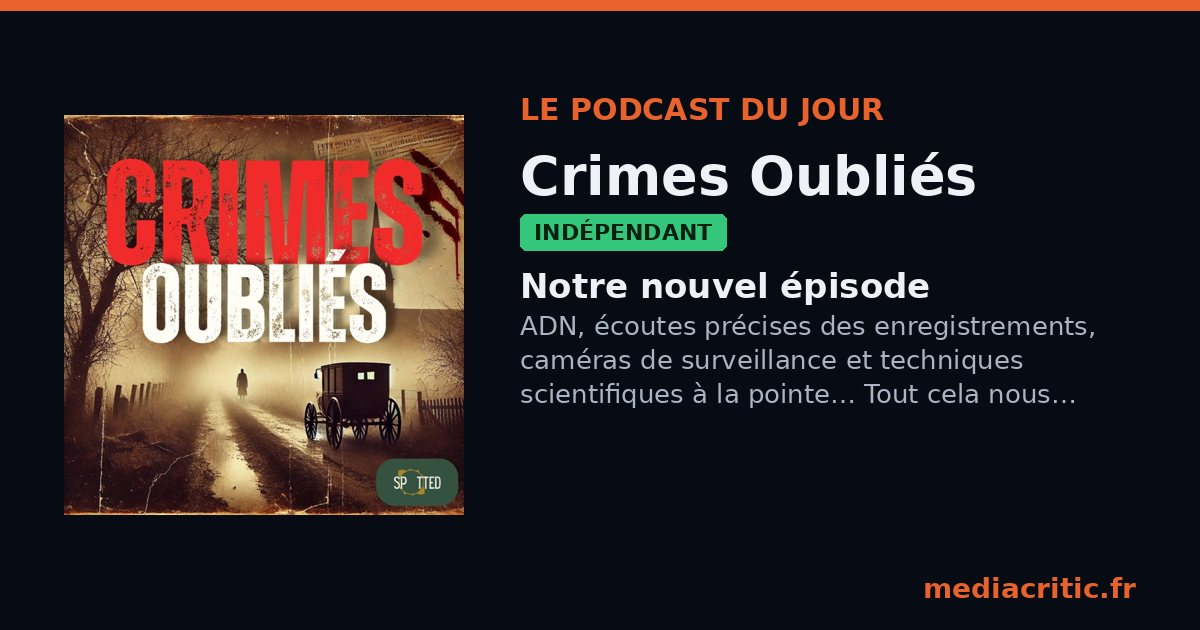
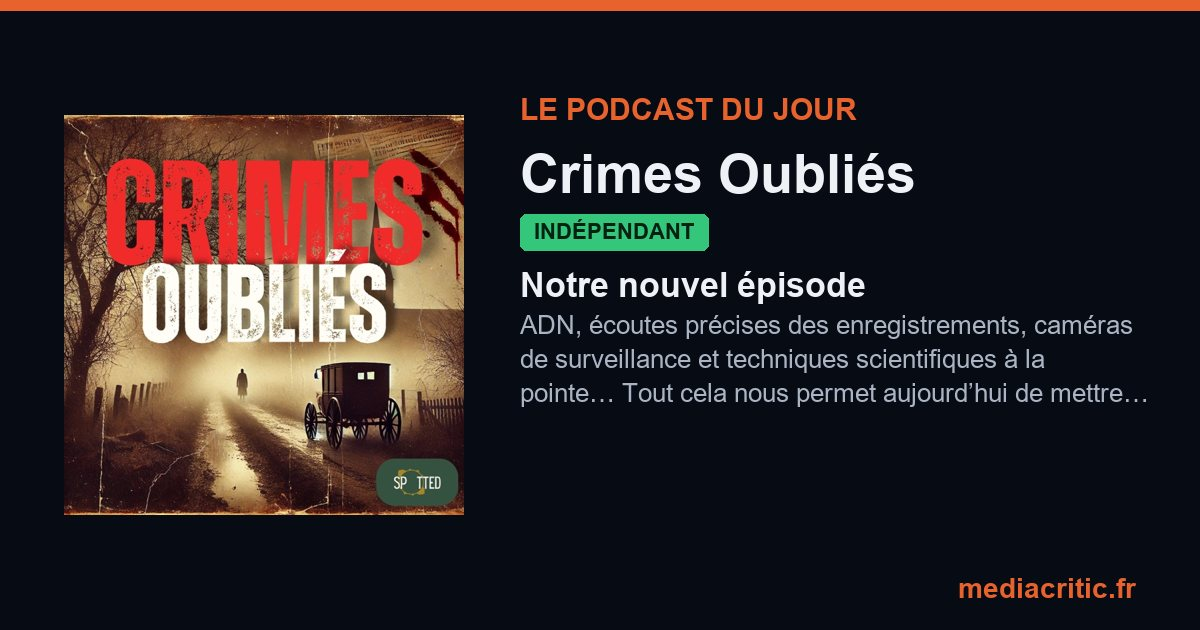
Podcast du jour : emission de l'episode 55

Changed region(s): [[0.4317, 0.2413, 0.9558, 0.6635], [0.4317, 0.1508, 0.74, 0.2111], [0.7708, 0.9048, 0.9558, 0.9651]]

diff --git a/podcast-du-jour.html b/podcast-du-jour.html
@@ -41,7 +41,7 @@ a{color:inherit}
 annuaire</a> qui en parle : un podcast ou une chaîne YouTube francophone à écouter pour aller
 plus loin que les gros titres.</p>
 <a class="mys-appel" href="mystere.html"><span class="mys-appel-ico" aria-hidden="true">🕵</span><span><strong>Le Mystère du Jour</strong><span>Devine-le avant de l'écouter : le podcast du jour en 6 indices →</span></span></a>
-<section class="mcj-zone"><article class="mcj" aria-label="🔥 Le podcast du jour"><a class="mcj-cover" href="fiches/crimes-oublies.html"><img src="https://is1-ssl.mzstatic.com/image/thumb/Podcasts211/v4/99/ed/a4/99eda493-4bd3-a62f-1d15-ade606e72b86/mza_126642419277798623.jpeg/600x600bb.jpg" alt="Crimes Oubliés" width="160" height="160" loading="eager" decoding="async" /></a><div class="mcj-txt"><p class="mcj-eyebrow">🔥 Le podcast du jour · 22 novembre</p><h2 class="mcj-titre"><a href="fiches/crimes-oublies.html">Crimes Oubliés</a></h2><p class="mcj-labels"><a class="mc-indep" href="podcasts-independants.html" title="Publié hors radios, presse, studios et institutions : voir le guide">Indépendant</a></p><div class="mcj-raisons"><p class="mcj-raisons-t">Pourquoi ce choix</p><div class="mcj-s"><p class="mcj-s-t">L&#x27;actu qui a fait le buzz</p><p class="mcj-s-p">Notre nouvel épisode sort aujourd&#x27;hui : l&#x27;épisode 55 de MediaCritic est consacré à Crimes Oubliés.</p></div><div class="mcj-s"><p class="mcj-s-t">L&#x27;émission</p><p class="mcj-s-p">Crimes Oubliés — podcast de Camille Debreuille. ADN, écoutes précises des enregistrements, caméras de surveillance et techniques scientifiques à la pointe… Tout cela nous permet aujourd’hui de mettre les barreaux les plus dangereux criminels.</p></div><div class="mcj-s"><p class="mcj-s-t">Pourquoi l&#x27;écouter</p><p class="mcj-s-p">Parce que nous venons de lui consacrer l&#x27;épisode 55 de MediaCritic, à écouter dès aujourd&#x27;hui.</p></div></div><div class="mcj-actions"><a class="mcj-btn mcj-btn-1" href="https://www.deezer.com/fr/episode/966774241" target="_blank" rel="noopener">▶ Notre critique</a><a class="mcj-btn" href="fiches/crimes-oublies.html">Voir la fiche</a></div></div></article></section>
+<section class="mcj-zone"><article class="mcj" aria-label="🔥 Le podcast du jour"><a class="mcj-cover" href="fiches/crimes-oublies.html"><img src="https://is1-ssl.mzstatic.com/image/thumb/Podcasts211/v4/99/ed/a4/99eda493-4bd3-a62f-1d15-ade606e72b86/mza_126642419277798623.jpeg/600x600bb.jpg" alt="Crimes Oubliés" width="160" height="160" loading="eager" decoding="async" /></a><div class="mcj-txt"><p class="mcj-eyebrow">🔥 Le podcast du jour · 22 novembre</p><h2 class="mcj-titre"><a href="fiches/crimes-oublies.html">Crimes Oubliés</a></h2><p class="mcj-labels"><a class="mc-indep" href="podcasts-independants.html" title="Publié hors radios, presse, studios et institutions : voir le guide">Indépendant</a><span class="mcj-note">★ 8/10 MediaCritic</span></p><div class="mcj-raisons"><p class="mcj-raisons-t">Pourquoi ce choix</p><div class="mcj-s"><p class="mcj-s-t">L&#x27;actu qui a fait le buzz</p><p class="mcj-s-p">Notre nouvel épisode sort aujourd&#x27;hui : l&#x27;épisode 55 de MediaCritic est consacré à Crimes Oubliés.</p></div><div class="mcj-s"><p class="mcj-s-t">L&#x27;émission</p><p class="mcj-s-p">Crimes Oubliés — podcast de Camille Debreuille. ADN, écoutes précises des enregistrements, caméras de surveillance et techniques scientifiques à la pointe… Tout cela nous permet aujourd’hui de mettre les barreaux les plus dangereux criminels.</p></div><div class="mcj-s"><p class="mcj-s-t">Pourquoi l&#x27;écouter</p><p class="mcj-s-p">Parce que nous venons de lui consacrer l&#x27;épisode 55 de MediaCritic, à écouter dès aujourd&#x27;hui. Notre note : 8/10. Notre verdict : « Du true crime fait par une artisane : écrit, raconté et réalisé seule, chaque semaine, sans labo pour sauver l&#x27;enquête. Le fait divers devient une leçon d&#x27;histoire. »</p></div></div><div class="mcj-actions"><a class="mcj-btn mcj-btn-1" href="https://www.mediacritic.fr/episodes/crimes-oublies.html" target="_blank" rel="noopener">▶ Notre critique</a><a class="mcj-btn" href="fiches/crimes-oublies.html">Voir la fiche</a></div></div></article></section>
 <section class="mcj-archive"><h2>Les sélections précédentes</h2><ol class="mcj-liste"><li class="mcj-l"><span class="mcj-l-date">21 novembre 2026</span><a href="fiches/squeezie-gaming.html">Squeezie Gaming</a><a class="mc-indep" href="podcasts-independants.html" title="Publié hors radios, presse, studios et institutions : voir le guide">Indépendant</a><span class="mcj-l-quoi">« Grand Theft Auto VI » — LE NOUVEAU GTA 6 EST FORMIDABLE (Grand Theft Auto VI)</span></li><li class="mcj-l"><span class="mcj-l-date">20 novembre 2026</span><a href="fiches/daniil-le-russe.html">Daniil le Russe</a><a class="mc-indep" href="podcasts-independants.html" title="Publié hors radios, presse, studios et institutions : voir le guide">Indépendant</a><span class="mcj-l-quoi">« Robert Pattinson » — ROBERT PATTINSON le James Bond qu&#x27;on mérite ?</span></li><li class="mcj-l"><span class="mcj-l-date">19 novembre 2026</span><a href="fiches/maintenant-vous-savez.html">Maintenant, vous savez</a><span class="mcj-l-quoi">« Beaujolais nouveau » — Pourquoi le Beaujolais Nouveau revient chaque année, malgré un goût controversé ?</span></li><li class="mcj-l"><span class="mcj-l-date">18 novembre 2026</span><a href="fiches/l-angle-eco-de-francois-lenglet.html">L&#x27;angle éco de François Lenglet</a><span class="mcj-l-quoi">« James Bond » — L&#x27;empire économique James Bond</span></li><li class="mcj-l"><span class="mcj-l-date">17 novembre 2026</span><a href="fiches/julien-chieze.html">Julien Chièze</a><a class="mc-indep" href="podcasts-independants.html" title="Publié hors radios, presse, studios et institutions : voir le guide">Indépendant</a><span class="mcj-l-quoi">« Beaujolais nouveau » — &quot;GTA 6 c&#x27;est la VIOLENCE, le BEAUJOLAIS c&#x27;est la convivialité !&quot; ❌ GTA 6 se fait CLASHER sur RMC 🤣</span></li><li class="mcj-l"><span class="mcj-l-date">16 novembre 2026</span><a href="fiches/les-grands-remplacants.html">Les grands remplaçants</a><span class="mcj-l-quoi">« Édouard Philippe » — Edouard Philippe : Intégration à l’extrême - La chronique de Djamil Le Shlag dans Les grands remplaçants du 7 novembre</span></li><li class="mcj-l"><span class="mcj-l-date">15 novembre 2026</span><a href="fiches/la-martingale.html">La Martingale</a><span class="mcj-l-quoi">MediaCritic, épisode 54</span></li><li class="mcj-l"><span class="mcj-l-date">14 novembre 2026</span><a href="fiches/rothen-s-enflamme.html">Rothen s&#x27;enflamme</a><span class="mcj-l-quoi">« Mauricio Pochettino » — LÉGENDE OU PAS LÉGENDE : MAURICIO POCHETTINO</span></li><li class="mcj-l"><span class="mcj-l-date">13 novembre 2026</span><a href="fiches/so-foot-arena.html">So Foot Arena</a><a class="mc-indep" href="podcasts-independants.html" title="Publié hors radios, presse, studios et institutions : voir le guide">Indépendant</a><span class="mcj-l-quoi">« Zinédine Zidane » — S03 - EP07 : Zinédine Zidane en état de grâce</span></li><li class="mcj-l"><span class="mcj-l-date">12 novembre 2026</span><a href="fiches/le-rendez-vous-tech.html">Le Rendez-vous Tech</a><a class="mc-indep" href="podcasts-independants.html" title="Publié hors radios, presse, studios et institutions : voir le guide">Indépendant</a><span class="mcj-l-quoi">« Jensen Huang » — Jensen Huang, l’agente qui m’aimait – RDV Tech</span></li><li class="mcj-l"><span class="mcj-l-date">11 novembre 2026</span><a href="fiches/les-nuits-du-cazarre-enchaine.html">Les nuits du Cazarre enchaîné</a><span class="mcj-l-quoi">« Teddy Riner » — Viens défier Cazarre du 10 novembre - Quiz Teddy Riner – 10/11</span></li><li class="mcj-l"><span class="mcj-l-date">10 novembre 2026</span><a href="fiches/les-gens-qui-doutent.html">Les Gens Qui Doutent</a><a class="mc-indep" href="podcasts-independants.html" title="Publié hors radios, presse, studios et institutions : voir le guide">Indépendant</a><span class="mcj-l-quoi">« Albert Dupontel » — Albert Dupontel : « La frustration d’un artiste, c’est de ressentir plus qu’il ne peut exprimer »</span></li><li class="mcj-l"><span class="mcj-l-date">9 novembre 2026</span><a href="fiches/notre-histoire.html">Notre Histoire</a><a class="mc-indep" href="podcasts-independants.html" title="Publié hors radios, presse, studios et institutions : voir le guide">Indépendant</a><span class="mcj-l-quoi">« Jean-Luc Mélenchon » — Jean-Luc Mélenchon et sa jeunesse : les coulisses d’un combat politique | Documentaire Politique AMP</span></li><li class="mcj-l"><span class="mcj-l-date">8 novembre 2026</span><a href="fiches/generation-do-it-yourself.html">Génération Do It Yourself</a><span class="mcj-l-quoi">MediaCritic, épisode 53</span></li><li class="mcj-l"><span class="mcj-l-date">7 novembre 2026</span><a href="fiches/le-kop-de-scipion.html">Le Kop de Scipion</a><a class="mc-indep" href="podcasts-independants.html" title="Publié hors radios, presse, studios et institutions : voir le guide">Indépendant</a><span class="mcj-l-quoi">« Pablo Pagis » — La liste des Bleus : grande première pour Pablo Pagis</span></li><li class="mcj-l"><span class="mcj-l-date">6 novembre 2026</span><a href="fiches/lionel.html">Lionel</a><a class="mc-indep" href="podcasts-independants.html" title="Publié hors radios, presse, studios et institutions : voir le guide">Indépendant</a><span class="mcj-l-quoi">« Cristiano Ronaldo » — Le mélange de Cristiano Ronaldo et Hello Kitty ça donne quoi ? 😱</span></li><li class="mcj-l"><span class="mcj-l-date">5 novembre 2026</span><a href="fiches/la-story-des-echos.html">La Story des Échos</a><span class="mcj-l-quoi">« Donald Trump » — Canada : pourquoi la guerre commerciale de Donald Trump freine les volontés d’indépendance</span></li><li class="mcj-l"><span class="mcj-l-date">4 novembre 2026</span><a href="fiches/torchon.html">Torchon</a><a class="mc-indep" href="podcasts-independants.html" title="Publié hors radios, presse, studios et institutions : voir le guide">Indépendant</a><span class="mcj-l-quoi">« Philippe Jaenada » — L&#x27;inconnue du quai de Javel - Philippe Jaenada</span></li><li class="mcj-l"><span class="mcj-l-date">3 novembre 2026</span><a href="fiches/l-il-de-philippe-caveriviere.html">L&#x27;œil de Philippe Caverivière</a><span class="mcj-l-quoi">« Sophie Adenot » — &quot;Sophie Adenot a passé huit mois dans l&#x27;espace...Tout ça pour revenir avec les mêmes phrases que Miss Auvergne&quot;</span></li><li class="mcj-l"><span class="mcj-l-date">2 novembre 2026</span><a href="fiches/geopolitique-profonde-www-geopolitique-profonde-com.html">GÉOPOLITIQUE PROFONDE (www.geopolitique-profonde.com)</a><a class="mc-indep" href="podcasts-independants.html" title="Publié hors radios, presse, studios et institutions : voir le guide">Indépendant</a><span class="mcj-l-quoi">« Christine Lagarde » — Démission de la BCE : ce que la CASTE vous CACHE sur CHRISTINE LAGARDE !</span></li><li class="mcj-l"><span class="mcj-l-date">1er novembre 2026</span><a href="fiches/jeanbapisteshow.html">JeanBaptisteShow</a><a class="mc-indep" href="podcasts-independants.html" title="Publié hors radios, presse, studios et institutions : voir le guide">Indépendant</a><span class="mcj-l-quoi">MediaCritic, épisode 52</span></li><li class="mcj-l"><span class="mcj-l-date">31 octobre 2026</span><a href="fiches/merci-remi.html">Merci Rémi !</a><a class="mc-indep" href="podcasts-independants.html" title="Publié hors radios, presse, studios et institutions : voir le guide">Indépendant</a><span class="mcj-l-quoi">« Halloween » — 👻 Halloween avec les parents</span></li><li class="mcj-l"><span class="mcj-l-date">30 octobre 2026</span><a href="fiches/entrez-dans-lhistoire.html">Entrez dans l&#x27;Histoire</a><span class="mcj-l-quoi">« Halloween » — Halloween : une histoire à faire peur</span></li><li class="mcj-l"><span class="mcj-l-date">29 octobre 2026</span><a href="fiches/zack.html">ZACK</a><a class="mc-indep" href="podcasts-independants.html" title="Publié hors radios, presse, studios et institutions : voir le guide">Indépendant</a><span class="mcj-l-quoi">« Harry Kane » — HARRY KANE BALLON D&#x27;OR !</span></li><li class="mcj-l"><span class="mcj-l-date">28 octobre 2026</span><a href="fiches/a-bientot-de-te-revoir.html">À bientôt de te revoir</a><a class="mc-indep" href="podcasts-independants.html" title="Publié hors radios, presse, studios et institutions : voir le guide">Indépendant</a><span class="mcj-l-quoi">Pépite indépendante</span></li><li class="mcj-l"><span class="mcj-l-date">27 octobre 2026</span><a href="fiches/lafter-foot.html">L&#x27;After Foot</a><span class="mcj-l-quoi">« Ballon d&#x27;or » — Le Top de l&#x27;After Foot : L&#x27;hommage de l&#x27;After au Ballon d&#x27;Or 2026 Harry Kane ! – 26/10</span></li><li class="mcj-l"><span class="mcj-l-date">26 octobre 2026</span><a href="fiches/raph-football.html">RAPH FOOTBALL</a><a class="mc-indep" href="podcasts-independants.html" title="Publié hors radios, presse, studios et institutions : voir le guide">Indépendant</a><span class="mcj-l-quoi">« Le Havre » — 🔵⚪ MARSEILLE - LE HAVRE / Ligue 1 Commentary 🎙</span></li><li class="mcj-l"><span class="mcj-l-date">25 octobre 2026</span><a href="fiches/les-grosses-tetes.html">Les Grosses Têtes</a><span class="mcj-l-quoi">« Laurent Nuñez » — FAKE NEWS - Apple, Laurent Nunez, manifestations... Quelle Grosse Tête dit vrai ?</span></li></ol></section>
 </main>
 <!-- mc-footer --><footer class="mcf"><div class="mcf-in"><div class="mcf-brand"><a class="mcf-logo" href="/"><img src="/assets/logo.png" alt="" width="28" height="28" /><span>MediaCritic</span></a><p>Le podcast qui donne son avis, même quand on ne lui a pas demandé, et l&#39;annuaire des podcasts et chaînes YouTube francophones.</p><div class="mcf-social"><a href="https://www.instagram.com/mediacritic.inc/" target="_blank" rel="noopener noreferrer" aria-label="Instagram"><svg aria-hidden="true" focusable="false" viewBox="0 0 24 24"><path d="M12 2.163c3.204 0 3.584.012 4.85.07 3.252.148 4.771 1.691 4.919 4.919.058 1.265.069 1.645.069 4.849 0 3.205-.012 3.584-.069 4.849-.149 3.225-1.664 4.771-4.919 4.919-1.266.058-1.644.07-4.85.07-3.204 0-3.584-.012-4.849-.07-3.26-.149-4.771-1.699-4.919-4.92-.058-1.265-.07-1.644-.07-4.849 0-3.204.013-3.583.07-4.849.149-3.227 1.664-4.771 4.919-4.919 1.266-.057 1.645-.069 4.849-.069zm0-2.163c-3.259 0-3.667.014-4.947.072-4.358.2-6.78 2.618-6.98 6.98-.059 1.281-.073 1.689-.073 4.948 0 3.259.014 3.668.072 4.948.2 4.358 2.618 6.78 6.98 6.98 1.281.058 1.689.072 4.948.072 3.259 0 3.668-.014 4.948-.072 4.354-.2 6.782-2.618 6.979-6.98.059-1.28.073-1.689.073-4.948 0-3.259-.014-3.667-.072-4.947-.196-4.354-2.617-6.78-6.979-6.98-1.281-.059-1.69-.073-4.949-.073zm0 5.838c-3.403 0-6.162 2.759-6.162 6.162s2.759 6.163 6.162 6.163 6.162-2.759 6.162-6.163c0-3.403-2.759-6.162-6.162-6.162zm0 10.162c-2.209 0-4-1.79-4-4 0-2.209 1.791-4 4-4s4 1.791 4 4c0 2.21-1.791 4-4 4zm6.406-11.845c-.796 0-1.441.645-1.441 1.44s.645 1.44 1.441 1.44c.795 0 1.439-.645 1.439-1.44s-.644-1.44-1.439-1.44z"/></svg></a><a href="https://www.tiktok.com/@mediacritic_le_podcast" target="_blank" rel="noopener noreferrer" aria-label="TikTok"><svg aria-hidden="true" focusable="false" viewBox="0 0 24 24"><path d="M19.59 6.69a4.83 4.83 0 0 1-3.77-4.25V2h-3.45v13.67a2.89 2.89 0 0 1-2.88 2.5 2.89 2.89 0 0 1-2.89-2.89 2.89 2.89 0 0 1 2.89-2.89c.28 0 .54.04.79.1V9.01a6.33 6.33 0 0 0-.79-.05 6.34 6.34 0 0 0-6.34 6.34 6.34 6.34 0 0 0 6.34 6.34 6.34 6.34 0 0 0 6.33-6.34V8.69a8.18 8.18 0 0 0 4.78 1.52V6.75a4.85 4.85 0 0 1-1.01-.06z"/></svg></a><a href="https://www.youtube.com/@MediaCriticInc" target="_blank" rel="noopener noreferrer" aria-label="YouTube"><svg aria-hidden="true" focusable="false" viewBox="0 0 24 24"><path d="M23.498 6.186a3.016 3.016 0 0 0-2.122-2.136C19.505 3.545 12 3.545 12 3.545s-7.505 0-9.377.505A3.017 3.017 0 0 0 .502 6.186C0 8.07 0 12 0 12s0 3.93.502 5.814a3.016 3.016 0 0 0 2.122 2.136c1.871.505 9.376.505 9.376.505s7.505 0 9.377-.505a3.015 3.015 0 0 0 2.122-2.136C24 15.93 24 12 24 12s0-3.93-.502-5.814zM9.545 15.568V8.432L15.818 12l-6.273 3.568z"/></svg></a><a href="https://x.com/MediaCriticInc" target="_blank" rel="noopener noreferrer" aria-label="X"><svg aria-hidden="true" focusable="false" viewBox="0 0 24 24"><path d="M18.244 2.25h3.308l-7.227 8.26 8.502 11.24H16.17l-4.714-6.231-5.401 6.231H2.746l7.73-8.835L1.254 2.25H8.08l4.253 5.622zm-1.161 17.52h1.833L7.084 4.126H5.117z"/></svg></a><a href="https://www.linkedin.com/in/mediacritic-le-podcast-b890743a1/" target="_blank" rel="noopener noreferrer" aria-label="LinkedIn"><svg aria-hidden="true" focusable="false" viewBox="0 0 24 24"><path d="M20.447 20.452h-3.554v-5.569c0-1.328-.027-3.037-1.852-3.037-1.853 0-2.136 1.445-2.136 2.939v5.667H9.351V9h3.414v1.561h.046c.477-.9 1.637-1.85 3.37-1.85 3.601 0 4.267 2.37 4.267 5.455v6.286zM5.337 7.433c-1.144 0-2.063-.926-2.063-2.065 0-1.138.92-2.063 2.063-2.063 1.14 0 2.064.925 2.064 2.063 0 1.139-.925 2.065-2.064 2.065zm1.782 13.019H3.555V9h3.564v11.452zM22.225 0H1.771C.792 0 0 .774 0 1.729v20.542C0 23.227.792 24 1.771 24h20.451C23.2 24 24 23.227 24 22.271V1.729C24 .774 23.2 0 22.222 0h.003z"/></svg></a></div></div><div><p class="mcf-t">MediaCritic</p><ul><li><a href="/catalogue.html">Annuaire</a></li><li><a href="/classement.html">Classement</a></li><li><a href="/podcasts-independants.html">Les indépendants</a></li><li><a href="/chaines-youtube.html">Chaînes YouTube</a></li><li><a href="/badges.html">Badges MediaCritic</a></li><li><a href="/podcast-du-jour.html">Le podcast du jour</a></li><li><a href="/palmares.html">Palmarès des critiques</a></li><li><a href="/comparer.html">Comparateur</a></li><li><a href="/qui-sommes-nous.html">L&#39;équipe</a></li><li><a href="/contact.html">Contact</a></li><li><a href="/mentions-legales.html">Mentions légales</a></li></ul></div><div><p class="mcf-t">Catégories</p><ul><li><a href="/categories/histoire.html">Histoire</a></li><li><a href="/categories/true-crime.html">True crime</a></li><li><a href="/categories/culture-societe.html">Culture & société</a></li><li><a href="/categories/sciences.html">Sciences</a></li><li><a href="/categories/tech.html">Tech</a></li><li><a href="/categories/gaming.html">Gaming</a></li><li><a href="/categories/cinema-series.html">Cinéma & séries</a></li><li><a href="/categories/musique.html">Musique</a></li><li><a href="/categories/humour.html">Humour</a></li><li><a href="/categories/sport.html">Sport</a></li><li><a href="/categories/business.html">Business</a></li><li><a href="/categories/cuisine-gastronomie.html">Cuisine</a></li><li><a href="/categories/voyage.html">Voyage</a></li></ul></div><div><p class="mcf-t">Écouter</p><ul><li><a href="https://open.spotify.com/show/5JuffYLQq1q6l7Vh2zvkrV" target="_blank" rel="noopener noreferrer">Spotify</a></li><li><a href="https://podcasts.apple.com/fr/podcast/mediacritic/id1853247643" target="_blank" rel="noopener noreferrer">Apple Podcasts</a></li><li><a href="https://www.deezer.com/fr/show/1002376672" target="_blank" rel="noopener noreferrer">Deezer</a></li><li><a href="https://www.youtube.com/@MediaCriticInc" target="_blank" rel="noopener noreferrer">YouTube</a></li></ul></div></div><div class="mcf-bas"><p>© 2026 MediaCritic · <a href="/contact.html">mediacriticinc@gmail.com</a></p><p id="footer-updated"></p></div></footer><!-- /mc-footer -->

diff --git a/kit-du-jour.html b/kit-du-jour.html
@@ -31,15 +31,15 @@ body{margin:0;background:var(--mc-bg);color:var(--mc-text)}
 <p>Page de travail de l'équipe (non référencée). Textes prêts à copier, visuels à télécharger.
 Chaque lien porte un marqueur de suivi par réseau, visible dans Google Analytics
 (campagne « du-jour »).</p>
-<article class="mcj" aria-label="🔥 Le podcast du jour"><a class="mcj-cover" href="fiches/crimes-oublies.html"><img src="https://is1-ssl.mzstatic.com/image/thumb/Podcasts211/v4/99/ed/a4/99eda493-4bd3-a62f-1d15-ade606e72b86/mza_126642419277798623.jpeg/600x600bb.jpg" alt="Crimes Oubliés" width="160" height="160" loading="eager" decoding="async" /></a><div class="mcj-txt"><p class="mcj-eyebrow">🔥 Le podcast du jour · 22 novembre</p><h2 class="mcj-titre"><a href="fiches/crimes-oublies.html">Crimes Oubliés</a></h2><p class="mcj-labels"><a class="mc-indep" href="podcasts-independants.html" title="Publié hors radios, presse, studios et institutions : voir le guide">Indépendant</a></p><div class="mcj-raisons"><p class="mcj-raisons-t">Pourquoi ce choix</p><div class="mcj-s"><p class="mcj-s-t">L&#x27;actu qui a fait le buzz</p><p class="mcj-s-p">Notre nouvel épisode sort aujourd&#x27;hui : l&#x27;épisode 55 de MediaCritic est consacré à Crimes Oubliés.</p></div><div class="mcj-s"><p class="mcj-s-t">L&#x27;émission</p><p class="mcj-s-p">Crimes Oubliés — podcast de Camille Debreuille. ADN, écoutes précises des enregistrements, caméras de surveillance et techniques scientifiques à la pointe… Tout cela nous permet aujourd’hui de mettre les barreaux les plus dangereux criminels.</p></div><div class="mcj-s"><p class="mcj-s-t">Pourquoi l&#x27;écouter</p><p class="mcj-s-p">Parce que nous venons de lui consacrer l&#x27;épisode 55 de MediaCritic, à écouter dès aujourd&#x27;hui.</p></div></div><div class="mcj-actions"><a class="mcj-btn mcj-btn-1" href="https://www.deezer.com/fr/episode/966774241" target="_blank" rel="noopener">▶ Notre critique</a><a class="mcj-btn" href="fiches/crimes-oublies.html">Voir la fiche</a></div></div></article>
+<article class="mcj" aria-label="🔥 Le podcast du jour"><a class="mcj-cover" href="fiches/crimes-oublies.html"><img src="https://is1-ssl.mzstatic.com/image/thumb/Podcasts211/v4/99/ed/a4/99eda493-4bd3-a62f-1d15-ade606e72b86/mza_126642419277798623.jpeg/600x600bb.jpg" alt="Crimes Oubliés" width="160" height="160" loading="eager" decoding="async" /></a><div class="mcj-txt"><p class="mcj-eyebrow">🔥 Le podcast du jour · 22 novembre</p><h2 class="mcj-titre"><a href="fiches/crimes-oublies.html">Crimes Oubliés</a></h2><p class="mcj-labels"><a class="mc-indep" href="podcasts-independants.html" title="Publié hors radios, presse, studios et institutions : voir le guide">Indépendant</a><span class="mcj-note">★ 8/10 MediaCritic</span></p><div class="mcj-raisons"><p class="mcj-raisons-t">Pourquoi ce choix</p><div class="mcj-s"><p class="mcj-s-t">L&#x27;actu qui a fait le buzz</p><p class="mcj-s-p">Notre nouvel épisode sort aujourd&#x27;hui : l&#x27;épisode 55 de MediaCritic est consacré à Crimes Oubliés.</p></div><div class="mcj-s"><p class="mcj-s-t">L&#x27;émission</p><p class="mcj-s-p">Crimes Oubliés — podcast de Camille Debreuille. ADN, écoutes précises des enregistrements, caméras de surveillance et techniques scientifiques à la pointe… Tout cela nous permet aujourd’hui de mettre les barreaux les plus dangereux criminels.</p></div><div class="mcj-s"><p class="mcj-s-t">Pourquoi l&#x27;écouter</p><p class="mcj-s-p">Parce que nous venons de lui consacrer l&#x27;épisode 55 de MediaCritic, à écouter dès aujourd&#x27;hui. Notre note : 8/10. Notre verdict : « Du true crime fait par une artisane : écrit, raconté et réalisé seule, chaque semaine, sans labo pour sauver l&#x27;enquête. Le fait divers devient une leçon d&#x27;histoire. »</p></div></div><div class="mcj-actions"><a class="mcj-btn mcj-btn-1" href="https://www.mediacritic.fr/episodes/crimes-oublies.html" target="_blank" rel="noopener">▶ Notre critique</a><a class="mcj-btn" href="fiches/crimes-oublies.html">Voir la fiche</a></div></div></article>
 <section class="kit-b kit-tags"><h2>🏷 À taguer</h2><p>Aucun compte trouvé dans les sources officielles de l'émission (page YouTube, flux, site, description). Rien n'est deviné : à chercher à la main si besoin.</p></section>
 <section class="kit-b"><h2>✉ Message à l'émission (e-mail ou message privé)</h2><textarea readonly rows="12" id="t-msg">Bonjour,
 
-Petit mot pour vous prévenir : nous venons de consacrer un épisode de MediaCritic à Crimes Oubliés : https://www.deezer.com/fr/episode/966774241
+Petit mot pour vous prévenir : nous venons de consacrer un épisode de MediaCritic à Crimes Oubliés, avec une note de 8/10 : https://www.mediacritic.fr/episodes/crimes-oublies.html
 
 MediaCritic est un annuaire et un podcast de critiques des podcasts et chaînes YouTube francophones. Si ça vous fait plaisir, voici un badge à afficher sur votre site, votre page de liens ou la description de vos épisodes (code à coller) :
 
-&lt;a href=&quot;https://www.deezer.com/fr/episode/966774241&quot; title=&quot;Crimes Oubliés sur MediaCritic&quot;&gt;&lt;img src=&quot;https://www.mediacritic.fr/assets/badges/reference.svg&quot; alt=&quot;Référencé sur MediaCritic&quot; width=&quot;230&quot; height=&quot;64&quot; /&gt;&lt;/a&gt;
+&lt;a href=&quot;https://www.mediacritic.fr/episodes/crimes-oublies.html&quot; title=&quot;Crimes Oubliés sur MediaCritic&quot;&gt;&lt;img src=&quot;https://www.mediacritic.fr/assets/badges/note-crimes-oublies.svg&quot; alt=&quot;Critiqué par MediaCritic : 8/10&quot; width=&quot;250&quot; height=&quot;64&quot; /&gt;&lt;/a&gt;
 
 Belle journée,
 Alex &amp; Lolo — MediaCritic</textarea><button type="button" onclick="navigator.clipboard.writeText(document.getElementById('t-msg').value);this.textContent='Copié ✓'">Copier</button></section>

diff --git a/index.html b/index.html
@@ -442,7 +442,7 @@
 
 <div class="mys-appel-zone"><a class="mys-appel" href="mystere.html"><span class="mys-appel-ico" aria-hidden="true">🕵</span><span><strong>Le Mystère du Jour</strong><span>Devine-le avant de l'écouter : le podcast du jour en 6 indices →</span></span></a></div>
 <!-- du-jour -->
-<section class="mcj-zone" aria-label="Le podcast du jour"><article class="mcj" aria-label="🔥 Le podcast du jour"><a class="mcj-cover" href="fiches/crimes-oublies.html"><img src="https://is1-ssl.mzstatic.com/image/thumb/Podcasts211/v4/99/ed/a4/99eda493-4bd3-a62f-1d15-ade606e72b86/mza_126642419277798623.jpeg/600x600bb.jpg" alt="Crimes Oubliés" width="160" height="160" loading="eager" decoding="async" /></a><div class="mcj-txt"><p class="mcj-eyebrow">🔥 Le podcast du jour · 22 novembre</p><h2 class="mcj-titre"><a href="fiches/crimes-oublies.html">Crimes Oubliés</a></h2><p class="mcj-labels"><a class="mc-indep" href="podcasts-independants.html" title="Publié hors radios, presse, studios et institutions : voir le guide">Indépendant</a></p><div class="mcj-raisons"><p class="mcj-raisons-t">Pourquoi ce choix</p><div class="mcj-s"><p class="mcj-s-t">L&#x27;actu qui a fait le buzz</p><p class="mcj-s-p">Notre nouvel épisode sort aujourd&#x27;hui : l&#x27;épisode 55 de MediaCritic est consacré à Crimes Oubliés.</p></div><div class="mcj-s"><p class="mcj-s-t">L&#x27;émission</p><p class="mcj-s-p">Crimes Oubliés — podcast de Camille Debreuille. ADN, écoutes précises des enregistrements, caméras de surveillance et techniques scientifiques à la pointe… Tout cela nous permet aujourd’hui de mettre les barreaux les plus dangereux criminels.</p></div><div class="mcj-s"><p class="mcj-s-t">Pourquoi l&#x27;écouter</p><p class="mcj-s-p">Parce que nous venons de lui consacrer l&#x27;épisode 55 de MediaCritic, à écouter dès aujourd&#x27;hui.</p></div></div><div class="mcj-actions"><a class="mcj-btn mcj-btn-1" href="https://www.deezer.com/fr/episode/966774241" target="_blank" rel="noopener">▶ Notre critique</a><a class="mcj-btn" href="fiches/crimes-oublies.html">Voir la fiche</a><a class="mcj-btn mcj-btn-lien" href="podcast-du-jour.html">Les sélections précédentes →</a></div></div></article></section>
+<section class="mcj-zone" aria-label="Le podcast du jour"><article class="mcj" aria-label="🔥 Le podcast du jour"><a class="mcj-cover" href="fiches/crimes-oublies.html"><img src="https://is1-ssl.mzstatic.com/image/thumb/Podcasts211/v4/99/ed/a4/99eda493-4bd3-a62f-1d15-ade606e72b86/mza_126642419277798623.jpeg/600x600bb.jpg" alt="Crimes Oubliés" width="160" height="160" loading="eager" decoding="async" /></a><div class="mcj-txt"><p class="mcj-eyebrow">🔥 Le podcast du jour · 22 novembre</p><h2 class="mcj-titre"><a href="fiches/crimes-oublies.html">Crimes Oubliés</a></h2><p class="mcj-labels"><a class="mc-indep" href="podcasts-independants.html" title="Publié hors radios, presse, studios et institutions : voir le guide">Indépendant</a><span class="mcj-note">★ 8/10 MediaCritic</span></p><div class="mcj-raisons"><p class="mcj-raisons-t">Pourquoi ce choix</p><div class="mcj-s"><p class="mcj-s-t">L&#x27;actu qui a fait le buzz</p><p class="mcj-s-p">Notre nouvel épisode sort aujourd&#x27;hui : l&#x27;épisode 55 de MediaCritic est consacré à Crimes Oubliés.</p></div><div class="mcj-s"><p class="mcj-s-t">L&#x27;émission</p><p class="mcj-s-p">Crimes Oubliés — podcast de Camille Debreuille. ADN, écoutes précises des enregistrements, caméras de surveillance et techniques scientifiques à la pointe… Tout cela nous permet aujourd’hui de mettre les barreaux les plus dangereux criminels.</p></div><div class="mcj-s"><p class="mcj-s-t">Pourquoi l&#x27;écouter</p><p class="mcj-s-p">Parce que nous venons de lui consacrer l&#x27;épisode 55 de MediaCritic, à écouter dès aujourd&#x27;hui. Notre note : 8/10. Notre verdict : « Du true crime fait par une artisane : écrit, raconté et réalisé seule, chaque semaine, sans labo pour sauver l&#x27;enquête. Le fait divers devient une leçon d&#x27;histoire. »</p></div></div><div class="mcj-actions"><a class="mcj-btn mcj-btn-1" href="https://www.mediacritic.fr/episodes/crimes-oublies.html" target="_blank" rel="noopener">▶ Notre critique</a><a class="mcj-btn" href="fiches/crimes-oublies.html">Voir la fiche</a><a class="mcj-btn mcj-btn-lien" href="podcast-du-jour.html">Les sélections précédentes →</a></div></div></article></section>
 <!-- /du-jour -->
 
 <!-- SEARCH + FILTERS -->
